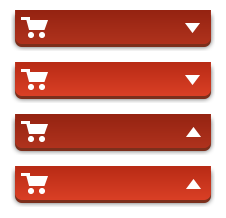
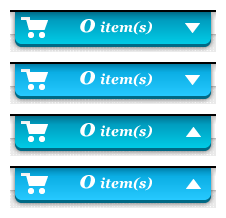
Blue instead of Red
Images

diff --git a/wp-content/themes/poopourri/page-templates/full-width-hightlight.php b/wp-content/themes/poopourri/page-templates/full-width-hightlight.php
@@ -28,7 +28,7 @@ get_header(); ?>
 			Poo~Pourri is the award-winning before-you-go toilet spray.
 		</p>
 		<img src="/wp-content/themes/poopourri/images/good_housekeeping_seal.png" style="position:absolute;top: 270px;right:110px;">
-  		<p style="position:absolute;right:28px;top: 410px;width:380px;text-align:center;font-size:14pt;font-weight:bold;color:red;">
+  		<p style="position:absolute;right:28px;top: 410px;width:380px;text-align:center;font-size:14pt;font-weight:bold;color:#0088B0;">
 			Over 4 million sold!
 		</p>
   		<a href="#" class="order_now_btn" style=" position: absolute;right: 30px;top: 440px;"></a>
